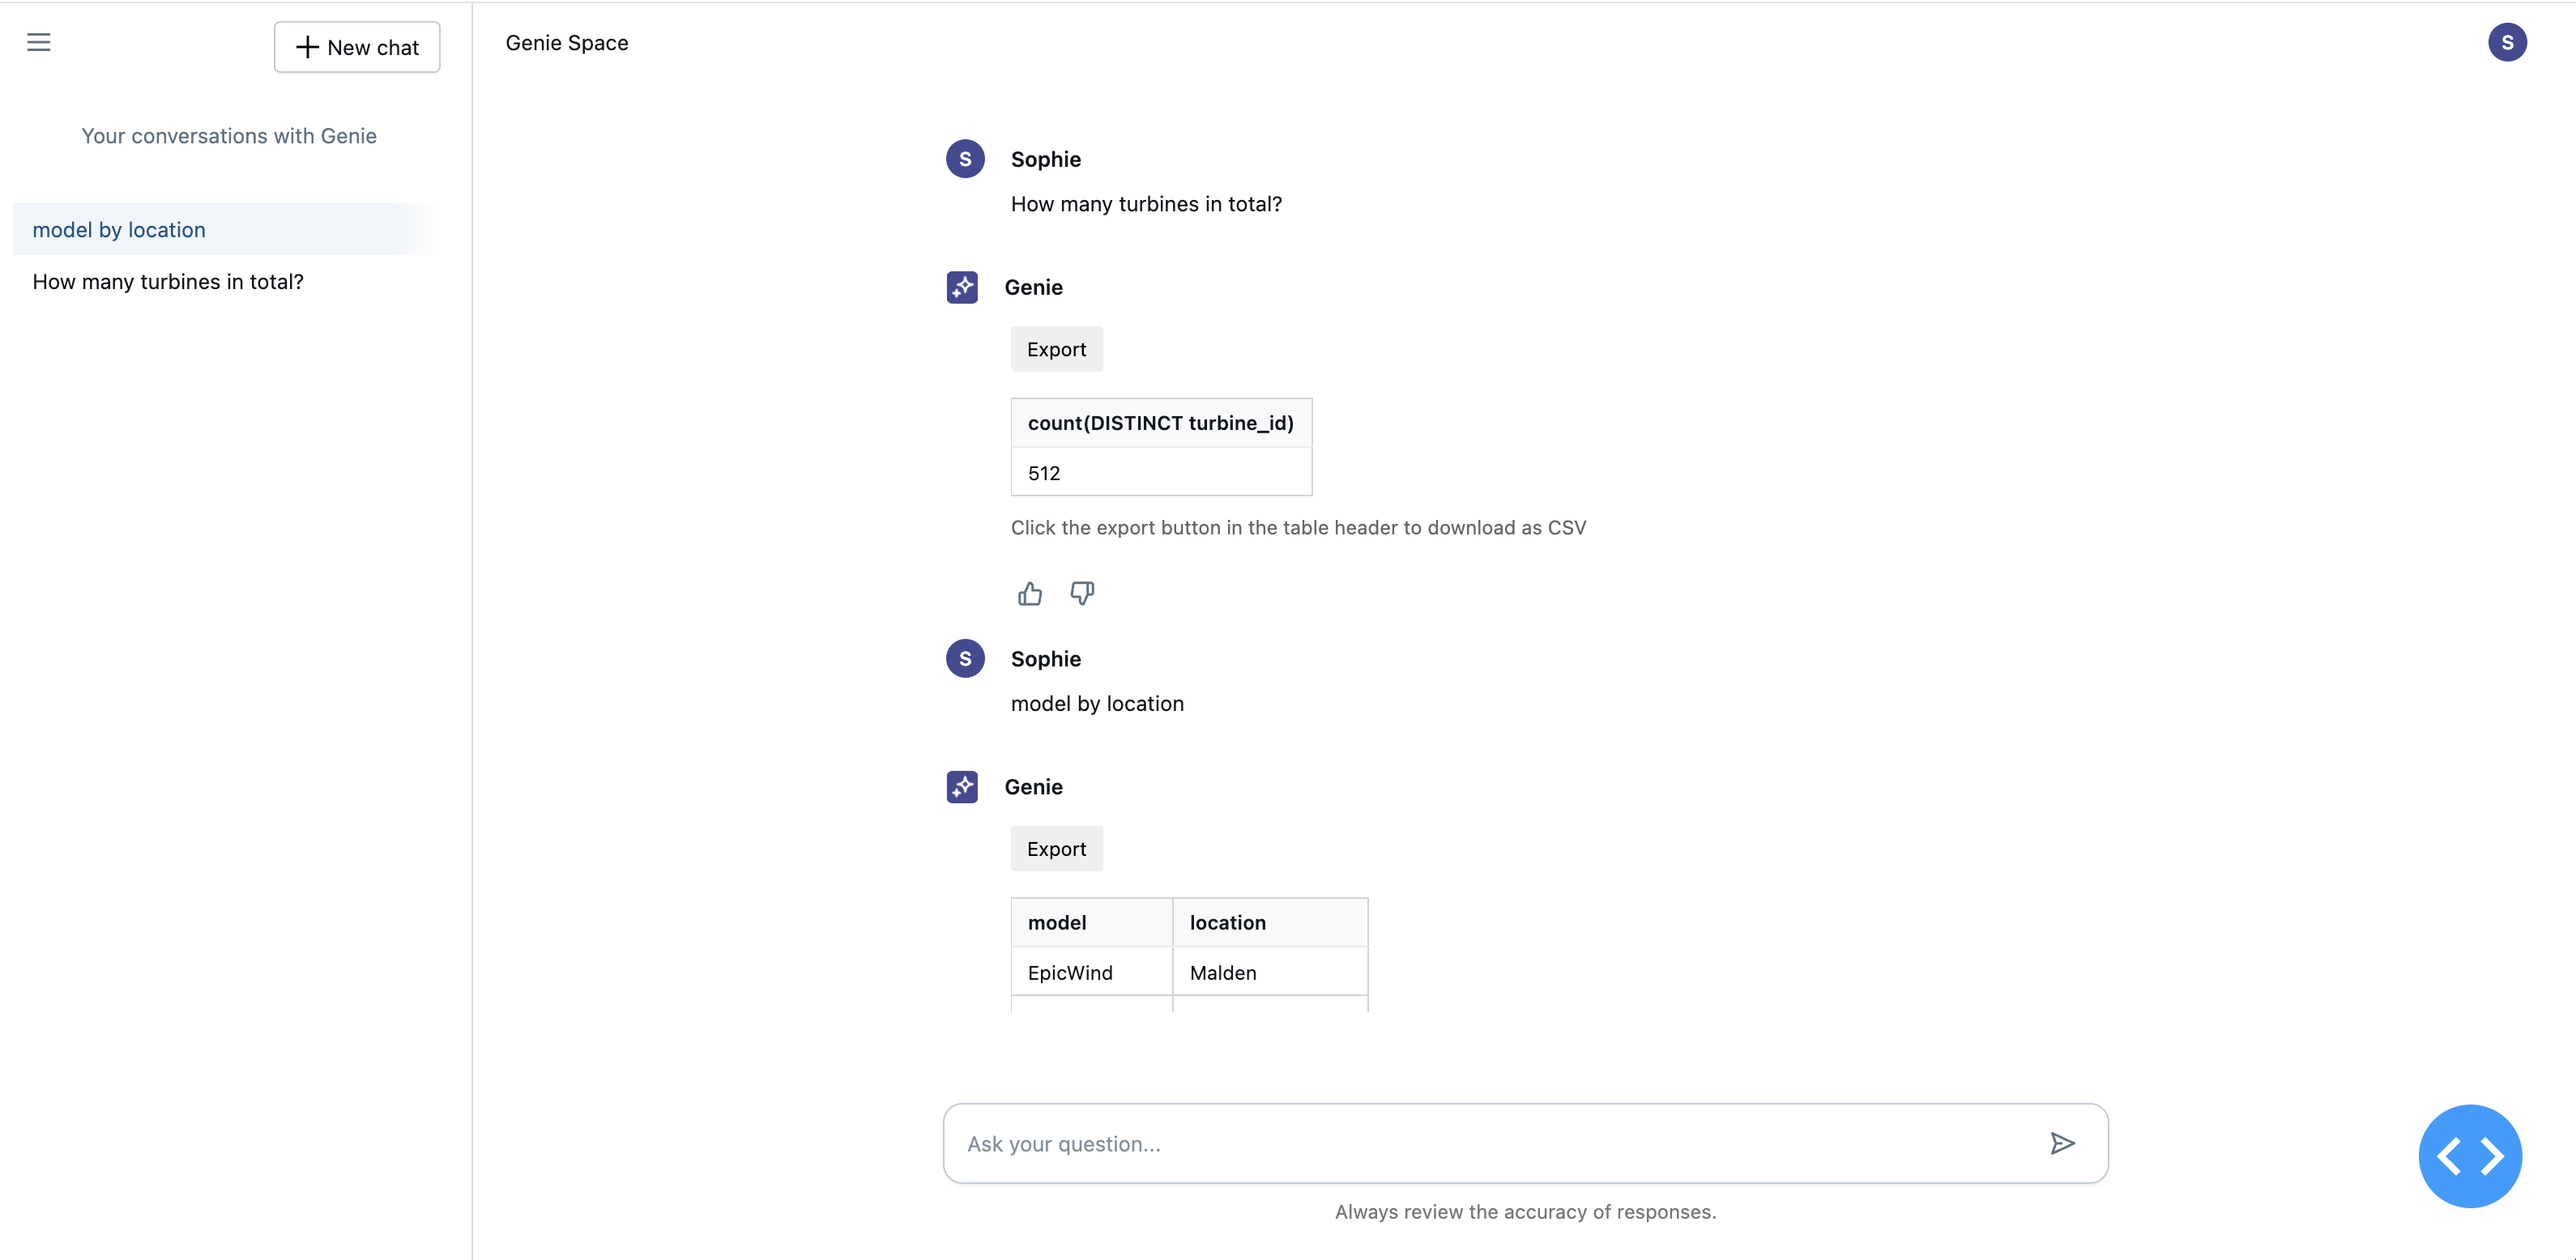
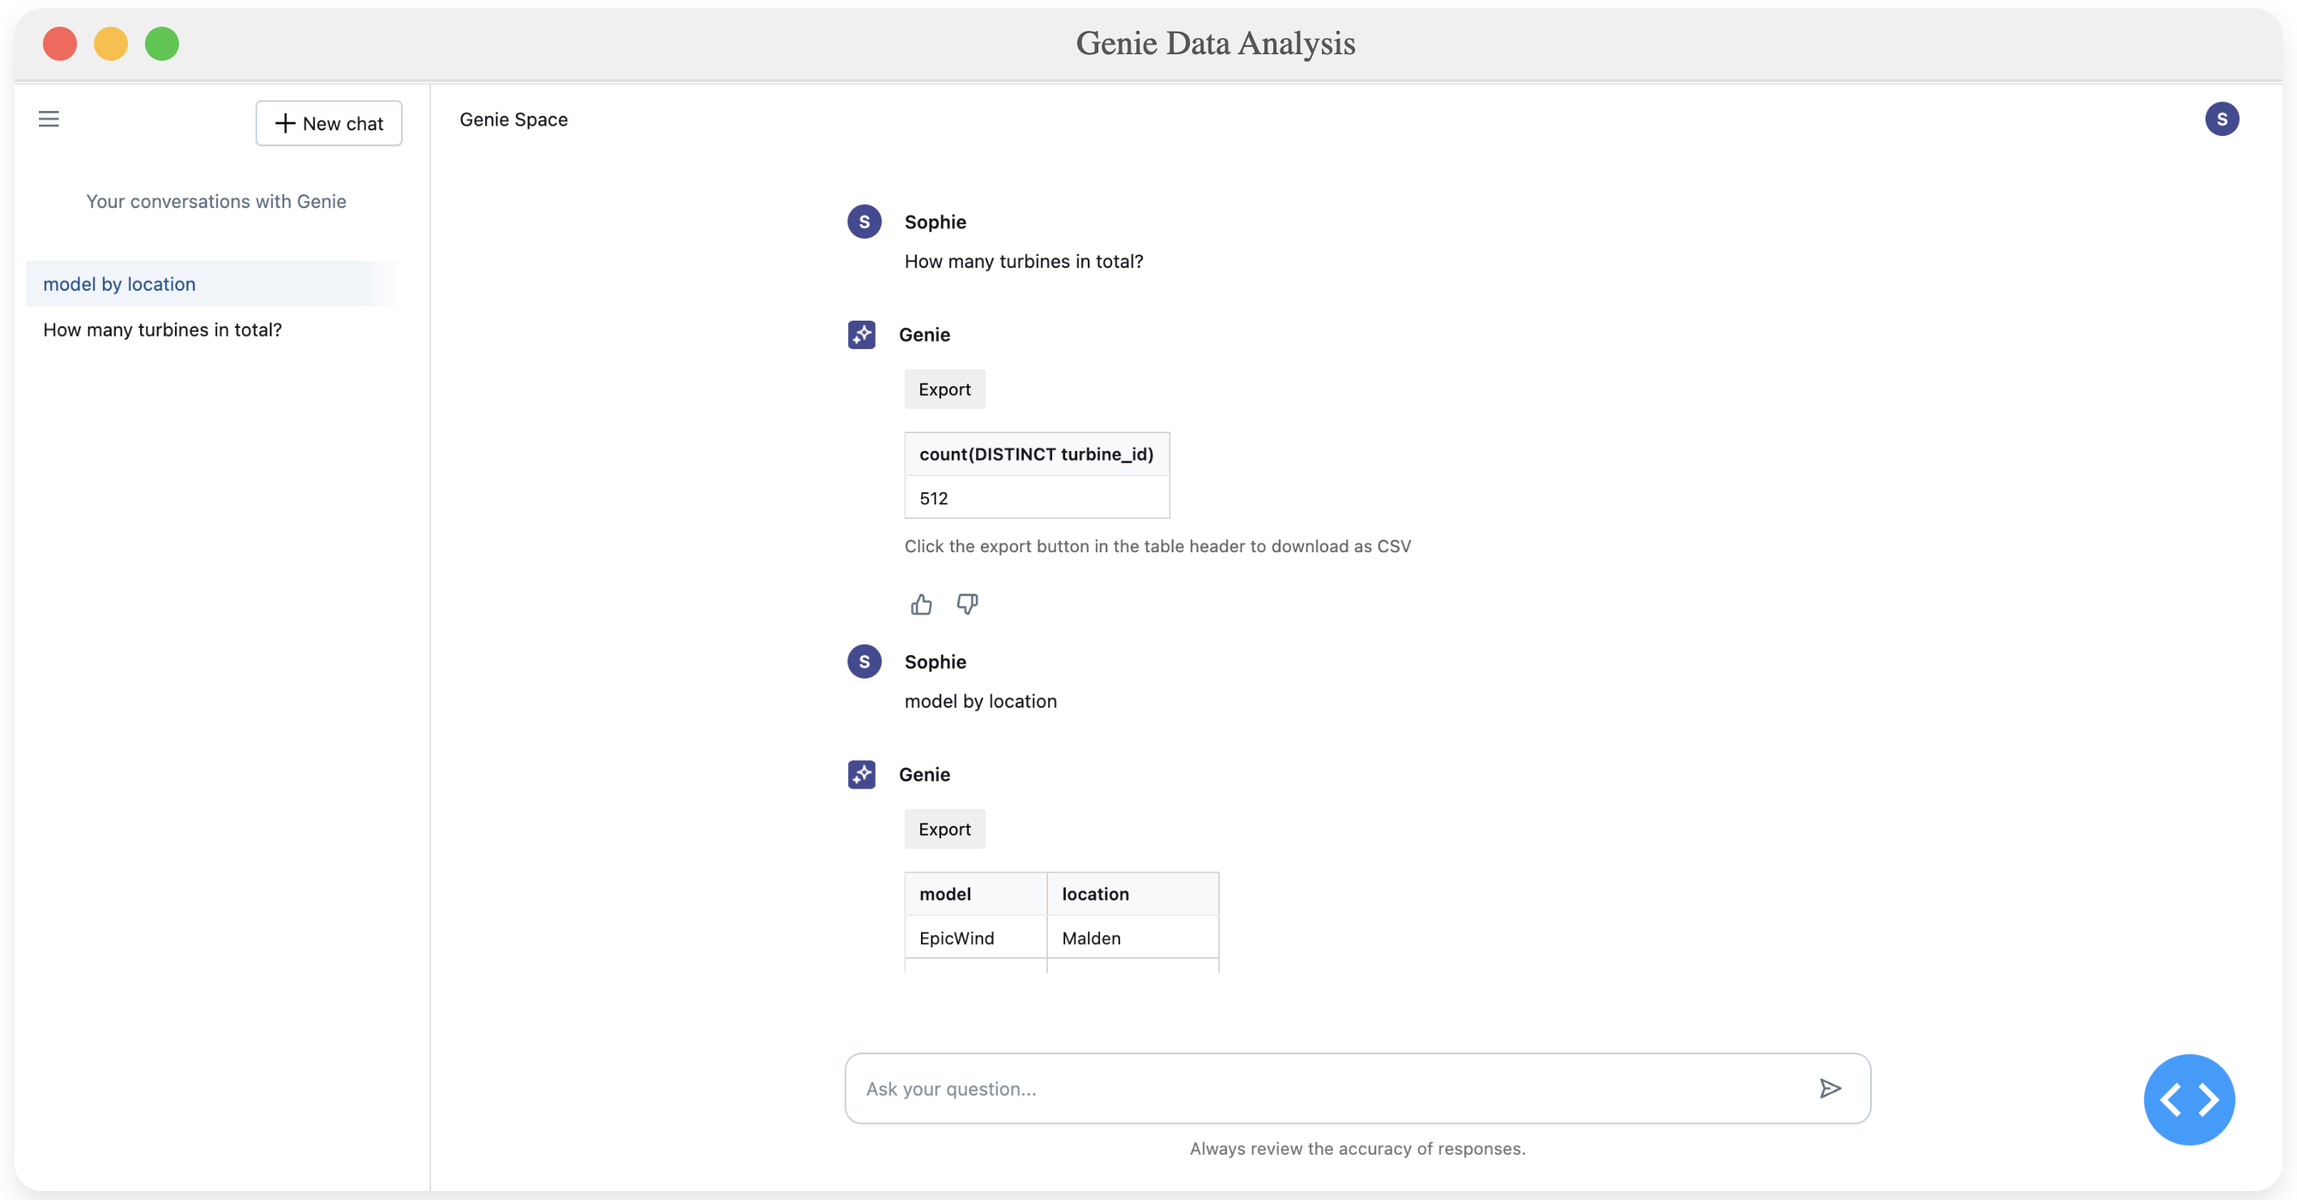
first commmit

diff --git a/README.md b/README.md
@@ -1,24 +1,7 @@
 # Databricks Genie API Integration Demo
 
-<div style="border-radius: 10px; overflow: hidden; box-shadow: 0 4px 8px rgba(0,0,0,0.1); max-width: 800px; margin: 20px 0;">
-  <div style="background: #f0f0f0; height: 25px; display: flex; align-items: center; padding: 0 10px; border-bottom: 1px solid #e0e0e0;">
-    <div style="background-color: #ff5f57; border-radius: 50%; width: 12px; height: 12px; margin-right: 6px;"></div>
-    <div style="background-color: #ffbd2e; border-radius: 50%; width: 12px; height: 12px; margin-right: 6px;"></div>
-    <div style="background-color: #28c840; border-radius: 50%; width: 12px; height: 12px;"></div>
-    <div style="margin: 0 auto; font-size: 12px; color: #555;">Genie Conversation Interface</div>
-  </div>
-  <img src="./assets/genie_room0.png" alt="Genie Conversation Chatbot Interface" style="width: 100%; display: block;">
-</div>
-
-<div style="border-radius: 10px; overflow: hidden; box-shadow: 0 4px 8px rgba(0,0,0,0.1); max-width: 800px; margin: 20px 0;">
-  <div style="background: #f0f0f0; height: 25px; display: flex; align-items: center; padding: 0 10px; border-bottom: 1px solid #e0e0e0;">
-    <div style="background-color: #ff5f57; border-radius: 50%; width: 12px; height: 12px; margin-right: 6px;"></div>
-    <div style="background-color: #ffbd2e; border-radius: 50%; width: 12px; height: 12px; margin-right: 6px;"></div>
-    <div style="background-color: #28c840; border-radius: 50%; width: 12px; height: 12px;"></div>
-    <div style="margin: 0 auto; font-size: 12px; color: #555;">Genie Data Analysis</div>
-  </div>
-  <img src="./assets/genie_room1.png" alt="Genie Conversation Chatbot Interface" style="width: 100%; display: block;">
-</div>
+![](./assets/genie_room0.png)
+![](./assets/genie_room1.png)
 
 This repository demonstrates how to integrate Databricks' AI/BI Genie Conversation APIs into custom Databricks Apps applications, allowing users to interact with their structured data using natural language.
 
@@ -42,7 +25,7 @@ The Databricks Genie Conversation APIs (in Public Preview) enable you to embed A
 ## Example Use Case
 
 This demo shows how to create a simple interface that connects to the Genie API, allowing users to:
-1. Start a conversation with a question about their domain data
+1. Start a conversation with a question about their supply chain data
 2. View generated SQL and results
 3. Ask follow-up questions that maintain context
 
